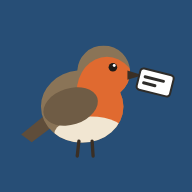
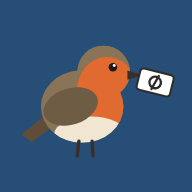
Icona: simbolo del diametro sull'etichetta del pettirosso (versione F)

Changed region(s): [[0.7188, 0.375, 0.875, 0.4688]]

diff --git a/docs/2026-11-07-icona-pettirosso.md b/docs/2026-11-07-icona-pettirosso.md
@@ -1,7 +1,7 @@
 # Icona dell'app: pettirosso con l'etichetta nel becco
 
 - Data: 2026-11-07
-- Stato: **confermato e realizzato (2026-11-07), versione D**
+- Stato: **confermato e realizzato (2026-11-07)**: prima versione D, poi **F** (scelta dell'utente, 2026-11-07)
 
 ## Perché
 
@@ -17,6 +17,7 @@ I disegni stanno nella cartella `docs/2026-11-07-icona-pettirosso/`. `anteprima.
 | **B** | `b-cartellino.svg` | Stesso pettirosso. Tiene per un filo un cartellino con il buco. Fondo blu ardesia dell'app (`#274e76`). |
 | **C** | `c-semplice.svg` | Pettirosso ridotto a un tondo: dorso bruno, petto arancio, occhio, becco, etichetta. Fondo antracite del tema scuro. È la più leggibile da piccola, ma è la meno "pettirosso". |
 | **D** | `d-blu-etichetta-dritta.svg` | Il pettirosso di B sul fondo blu, con l'etichetta rettangolare di A nel becco. Aggiunta su richiesta dell'utente. |
+| **F** | `f-diametro.svg`, `f-diametro-ritagliabile.svg` | Come D, ma sull'etichetta c'è il simbolo del diametro ⌀ dell'app al posto delle due righe. Le proporzioni sono quelle della ISO 3098 (cerchio 0,77 h, barra a 75°); il tratto è più spesso, per leggerlo nell'icona. Confronto in `anteprima-diametro.png`. Scelta dall'utente il 2026-11-07, al posto della D. |
 
 Colori:
 - dorso bruno-oliva `#8a7457`, ali più scure;
@@ -63,3 +64,7 @@ Le bozze si possono ritoccare: colori, fondo, posizione dell'etichetta, anche me
   - `icona-180.png`, come `apple-touch-icon`.
 - **PNG:** li genera `scripts/make-icons.mjs` con Chromium di Playwright. Lo script toglie gli angoli arrotondati del fondo, perché la forma la dà il telefono. Va rilanciato solo se cambia il disegno.
 - **Test:** e2e in `tests/e2e/app.spec.ts`: le 3 icone dichiarate rispondono 200 con il tipo giusto. Controllato anche che finiscano in `dist/`.
+- **Passaggio alla F (2026-11-07):**
+  - `public/icona.svg` e `public/icona-ritagliabile.svg` ora hanno il simbolo ⌀ sull'etichetta;
+  - PNG rigenerati con `scripts/make-icons.mjs`;
+  - test delle icone verdi, compresa la zona sicura di Android.
